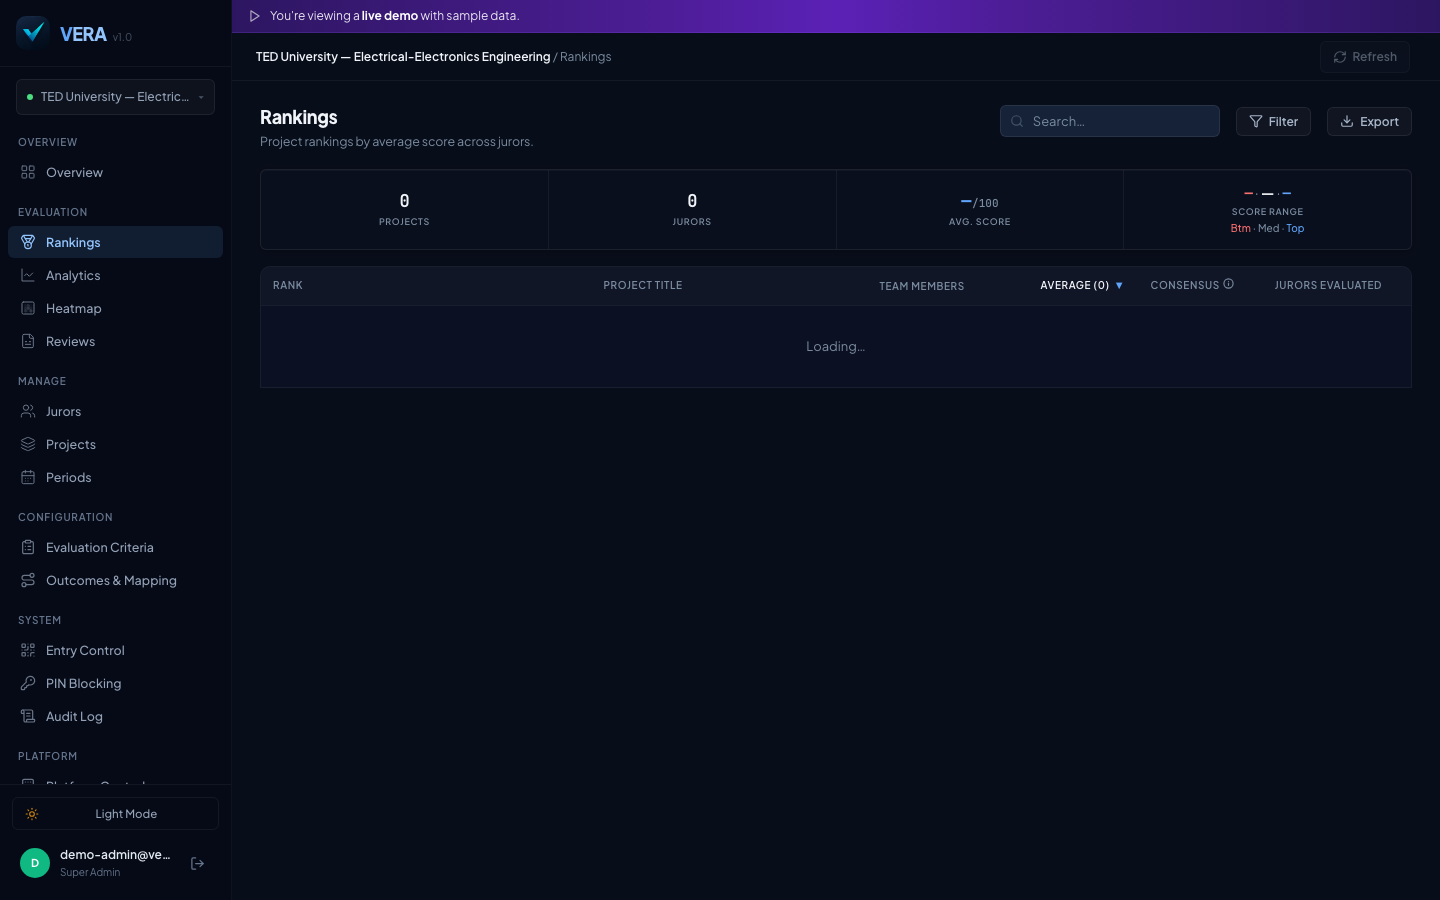
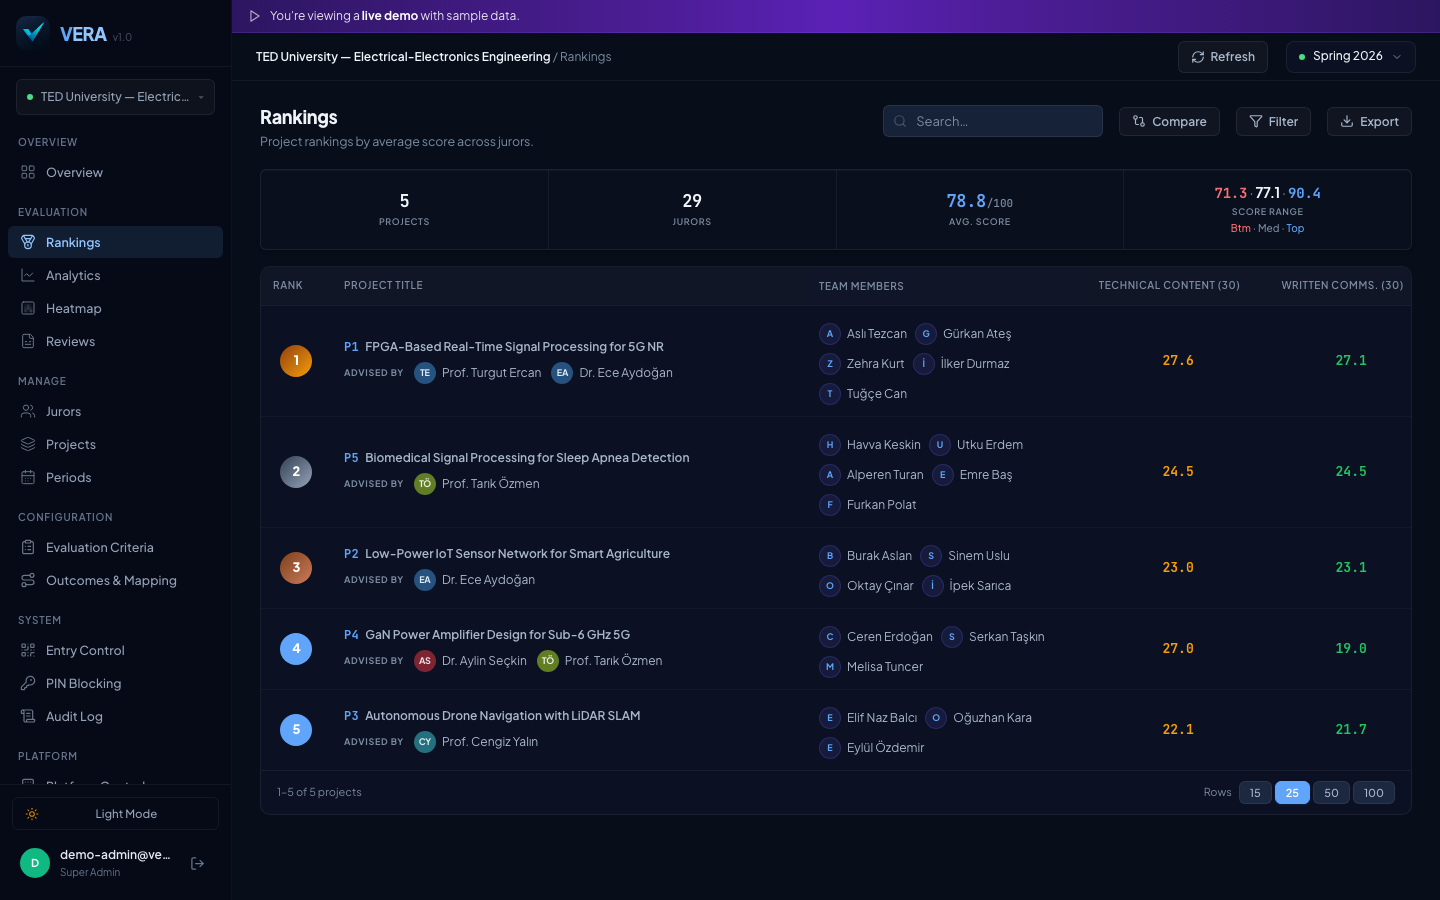
fix(showcase): wait for real data before capture in showcase.spec.ts; refresh 12 PNGs
Overview now waits for KPI data-value > 0 (was capturing loading state with 0s),
rankings waits for actual project rows, auditlog waits for first audit-row. All 12
showcase PNGs regenerated with real data.

diff --git a/e2e/screenshots/showcase.spec.ts b/e2e/screenshots/showcase.spec.ts
@@ -55,14 +55,30 @@ async function captureShowcase(page: Page, filename: string): Promise<void> {
 test("showcase: overview dark", async ({ page }) => {
   seedTheme(page, "dark");
   await gotoAdminPage(page, "overview");
-  await expect(page.getByTestId("overview-kpi-active-jurors")).toBeVisible({ timeout: 15_000 });
+  await page.waitForFunction(
+    () => {
+      const el = document.querySelector("[data-testid='overview-kpi-active-jurors']");
+      if (!el) return false;
+      const val = el.getAttribute("data-value");
+      return val !== null && parseInt(val, 10) > 0;
+    },
+    { timeout: 20_000 },
+  );
   await captureShowcase(page, "overview-dark.png");
 });
 
 test("showcase: overview light", async ({ page }) => {
   seedTheme(page, "light");
   await gotoAdminPage(page, "overview");
-  await expect(page.getByTestId("overview-kpi-active-jurors")).toBeVisible({ timeout: 15_000 });
+  await page.waitForFunction(
+    () => {
+      const el = document.querySelector("[data-testid='overview-kpi-active-jurors']");
+      if (!el) return false;
+      const val = el.getAttribute("data-value");
+      return val !== null && parseInt(val, 10) > 0;
+    },
+    { timeout: 20_000 },
+  );
   await captureShowcase(page, "overview-light.png");
 });
 
@@ -91,6 +107,7 @@ test("showcase: auditlog dark", async ({ page }) => {
   await gotoAdminPage(page, "audit-log");
   await expect(page.getByTestId("audit-log-page")).toBeVisible({ timeout: 15_000 });
   await expect(page.getByTestId("audit-kpi-strip")).toBeVisible({ timeout: 10_000 });
+  await expect(page.getByTestId("audit-row").first()).toBeVisible({ timeout: 15_000 });
   await captureShowcase(page, "auditlog-dark.png");
 });
 
@@ -99,6 +116,7 @@ test("showcase: auditlog light", async ({ page }) => {
   await gotoAdminPage(page, "audit-log");
   await expect(page.getByTestId("audit-log-page")).toBeVisible({ timeout: 15_000 });
   await expect(page.getByTestId("audit-kpi-strip")).toBeVisible({ timeout: 10_000 });
+  await expect(page.getByTestId("audit-row").first()).toBeVisible({ timeout: 15_000 });
   await captureShowcase(page, "auditlog-light.png");
 });
 
@@ -124,7 +142,7 @@ test("showcase: rankings dark", async ({ page }) => {
   seedTheme(page, "dark");
   await gotoAdminPage(page, "rankings");
   await expect(page.getByTestId("rankings-kpi-strip")).toBeVisible({ timeout: 15_000 });
-  await expect(page.getByTestId("rankings-table")).toBeVisible();
+  await expect(page.locator("[data-testid^='rankings-row-']").first()).toBeVisible({ timeout: 20_000 });
   await captureShowcase(page, "rankings-dark.png");
 });
 
@@ -132,7 +150,7 @@ test("showcase: rankings light", async ({ page }) => {
   seedTheme(page, "light");
   await gotoAdminPage(page, "rankings");
   await expect(page.getByTestId("rankings-kpi-strip")).toBeVisible({ timeout: 15_000 });
-  await expect(page.getByTestId("rankings-table")).toBeVisible();
+  await expect(page.locator("[data-testid^='rankings-row-']").first()).toBeVisible({ timeout: 20_000 });
   await captureShowcase(page, "rankings-light.png");
 });
 
